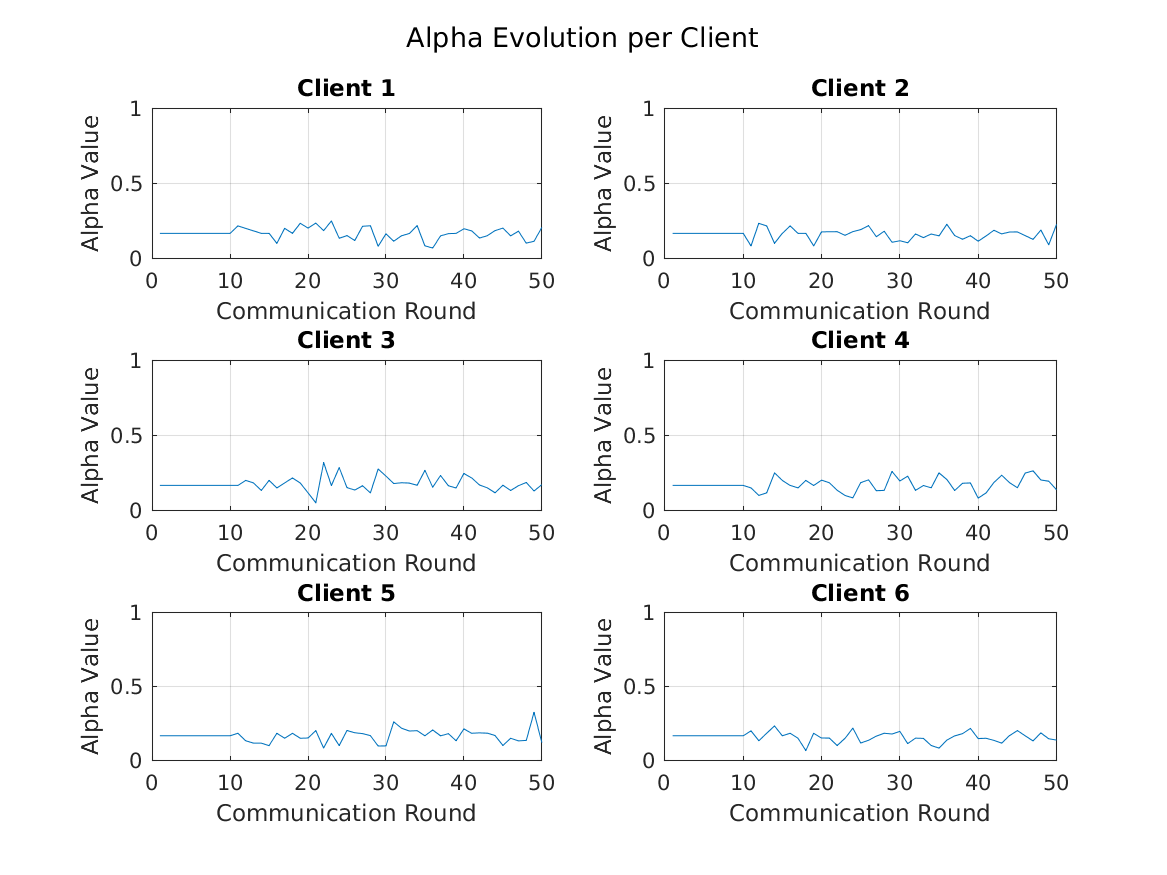
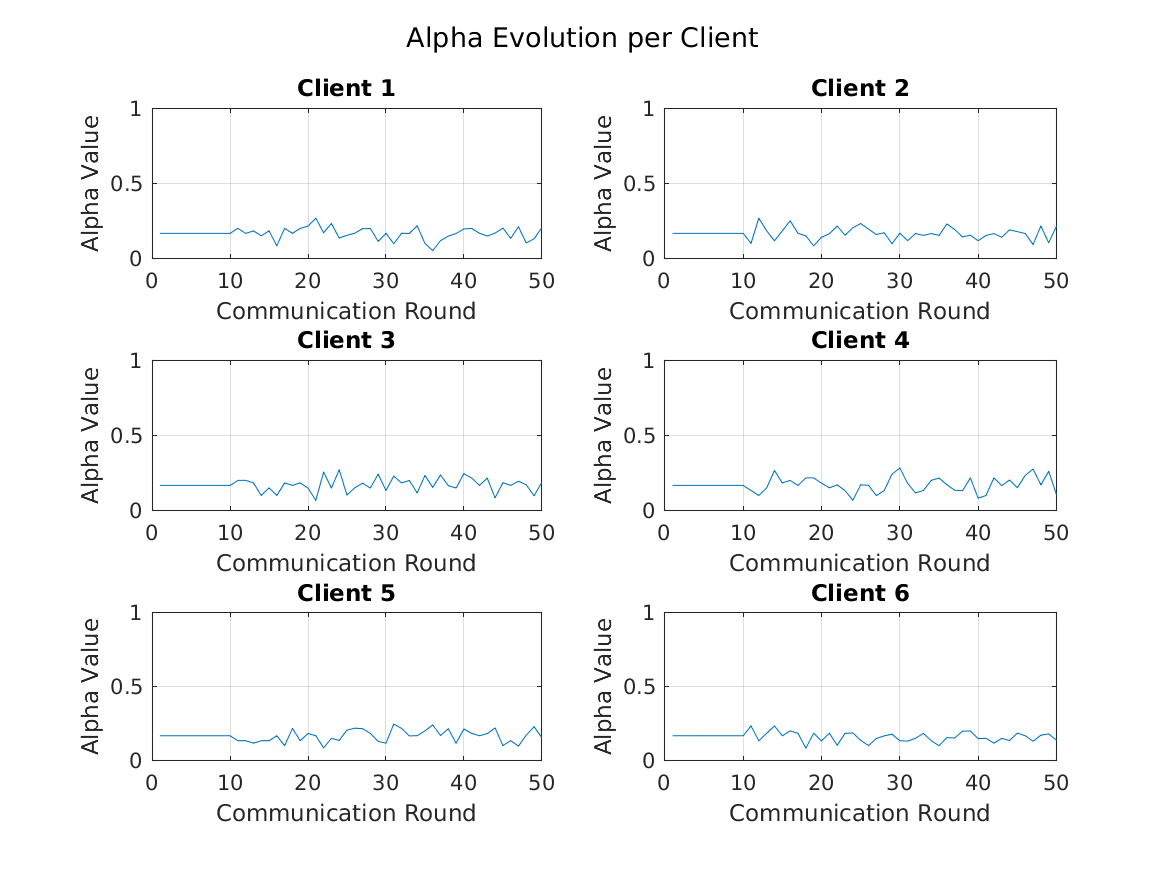
update the alpha 'only calculate at the first  time'

diff --git a/Matlab/computeAlphaFromGradients.m b/Matlab/computeAlphaFromGradients.m
@@ -1,21 +1,28 @@
 function newAlpha = computeAlphaFromGradients(gradAll, numClients)
-    % Collect all client gradients
-    allGradients = [];
+    persistent pcaCoeff;
+    if isempty(pcaCoeff)
+        % Collect all client gradient data
+        allGradients = [];
+        for i = 1:numClients
+            grad_i = extractdata(gradAll{i});
+            allGradients = [allGradients, grad_i];
+        end
+        [pcaCoeff, ~, ~] = pca(allGradients');
+    end
+    
+    simplexDim = numClients - 1;
+    reducedGradients = zeros(simplexDim, numClients);
     for i = 1:numClients
         grad_i = extractdata(gradAll{i});
-        allGradients = [allGradients, grad_i];
+        % The projection is performed using the first calculated PCA coefficients
+        reducedGradients(:,i) = pcaCoeff(:,1:simplexDim)' * grad_i;
     end
-    % Performing PCA
-    [coeff, ~, ~] = pca(allGradients);
-    simplexDim = numClients - 1;
-    reducedGradients = coeff(:,1:simplexDim)';
     
-    % Regularization
     s = 0.5;
     lambda = 0.01;
     regularizedGradients = reisz_energy_regularization(reducedGradients, s, lambda);
     
-    % Project onto simplex
+    % Project each client gradient onto the simplex
     simplexPoints = zeros(numClients, simplexDim);
     for k = 1:numClients
         simplexPoints(k,:) = project_to_simplex(regularizedGradients(:,k));
